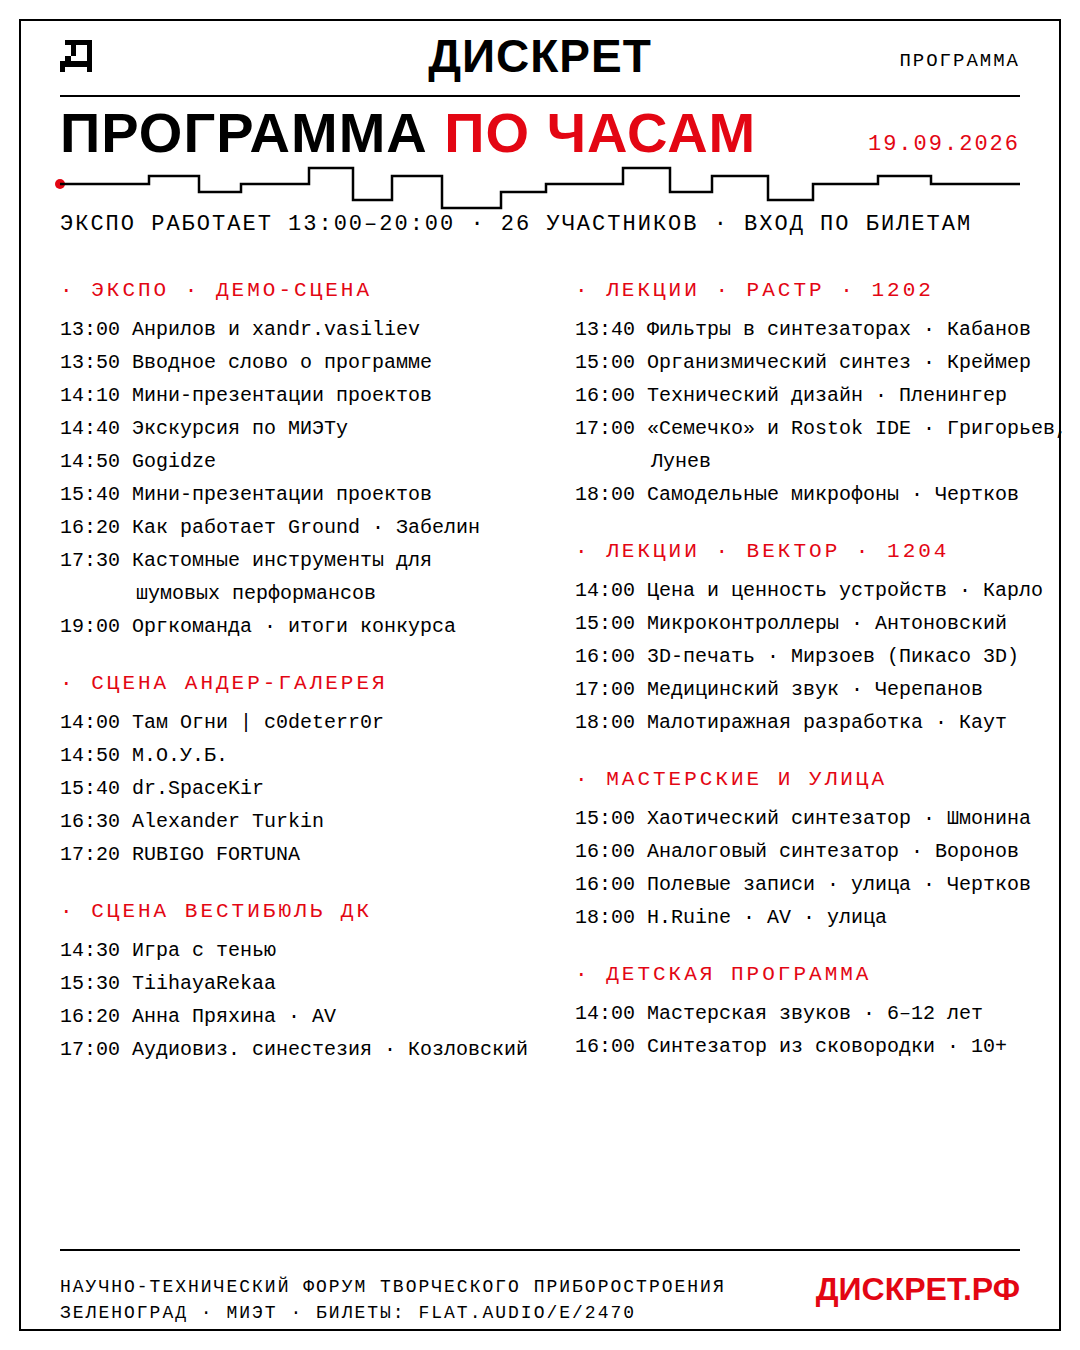
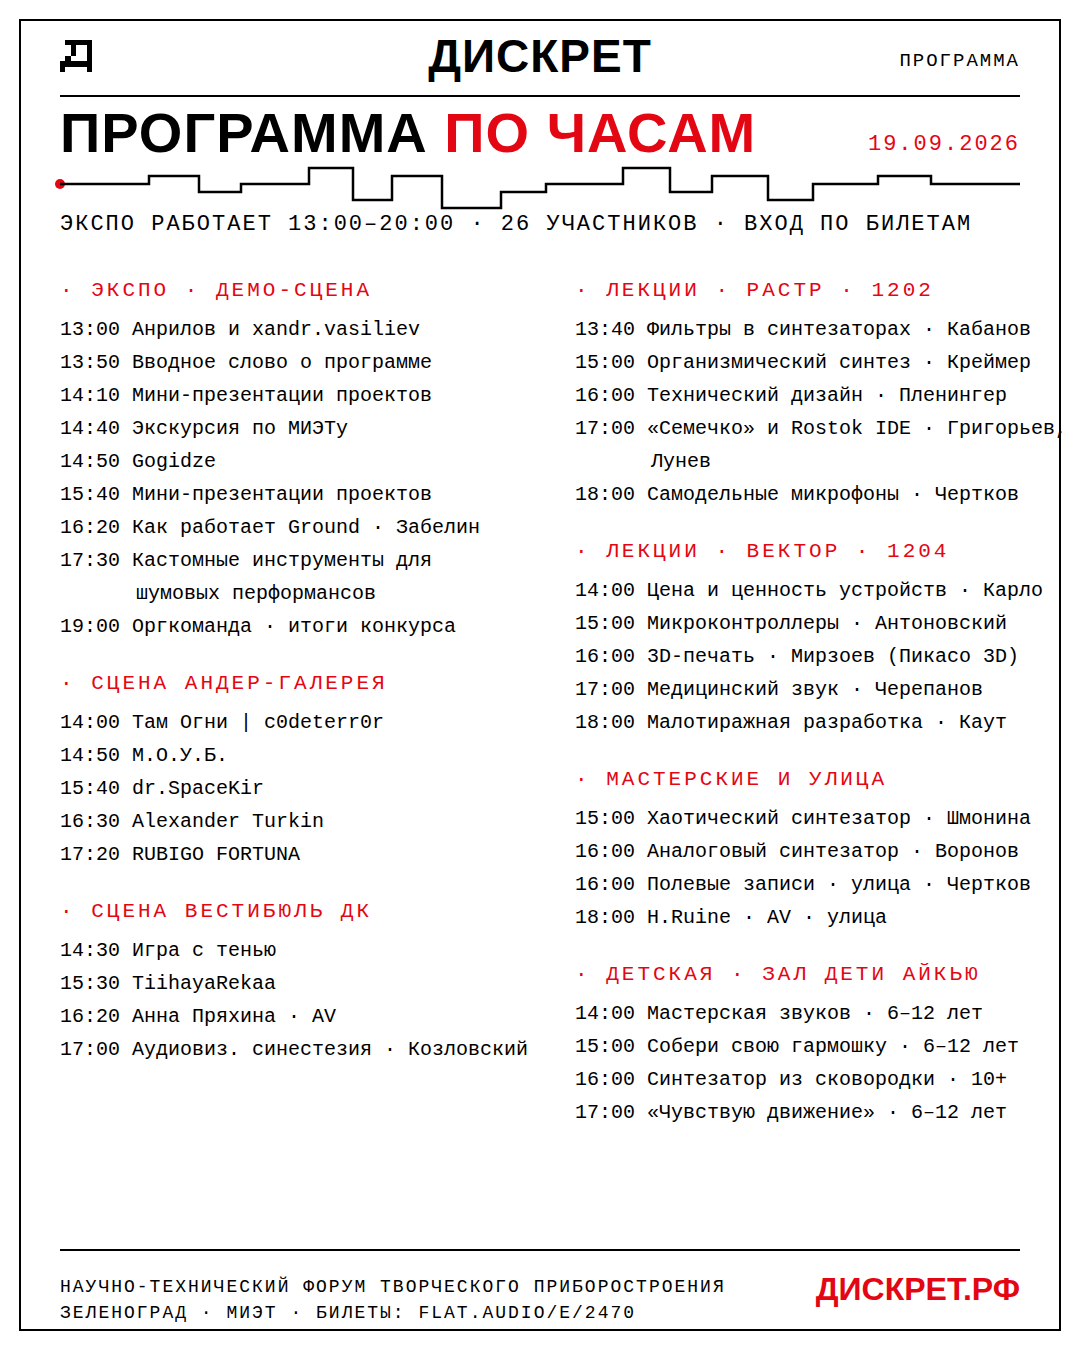
Детская программа: два МК Склада Ума и зал ДЕТИ АЙКЬЮ
15:00 «Звук — собери свою гармошку!» и 17:00 «Чувствую движение» —
шестое чувство (Склад Ума, 6–12 лет, бесплатно с регистрацией на
инфостойке). Внесено в расписание приложения, сетку A3 (колонка
подписана ДЕТИ АЙКЬЮ), программу-лист и список участников.

Claude-Session: https://claude.ai/code/session_01J7cakNvVwscKzgnd8yf78u

Changed region(s): [[0.55, 0.7156, 0.9472, 0.84]]

diff --git a/branding/app/index.html b/branding/app/index.html
@@ -623,7 +623,8 @@ const SCHED = [
   { t:"14:30", e:"15:20", title:"Игра с тенью", who:"Светлана Гончар", room:"vb", author:"shadow" },
   { t:"13:50", e:"14:10", title:"Вводное слово · экскурс по программе форума", who:"", room:"hall" },
   { t:"15:30", e:"16:20", title:"TiihayaRekaa", who:"Катрин Моррисон", room:"vb", author:"tiihaya" },
-  { t:"14:00", e:"15:00", title:"Мастерская звуков · дети 6–12 лет", who:"Олег Слуцкий · 876 ₽", room:"kids", author:"slutsky" },
+  { t:"14:00", e:"15:00", title:"Мастерская звуков · дети 6–12 лет", who:"Олег Слуцкий · 876 ₽ · зал ДЕТИ АЙКЬЮ", room:"kids", author:"slutsky" },
+  { t:"15:00", e:"16:00", title:"Звук — собери свою гармошку! · 6–12 лет", who:"Склад Ума · бесплатно, регистрация на инфостойке", room:"kids" },
   { t:"16:00", e:"17:40", title:"Полевые записи · прогулка с экспертами", who:"Илья Чертков и Влад Креймер · маршрут Павла Чукаева · 3456 ₽", room:"st", author:"chertkov" },
   { t:"13:40", e:"14:55", title:"Бесконденсаторные фильтры в синтезаторах: особенности, история, перспективы", who:"Владимир Кабанов · ПРИБОР", room:"l1" },
   { t:"14:00", e:"14:55", title:"Цена и ценность музыкальных устройств", who:"Евгений Карло", room:"l2" },
@@ -639,6 +640,7 @@ const SCHED = [
   { t:"16:20", e:"17:00", title:"Анна Пряхина · AV", who:"", room:"vb", author:"pryahina" },
   { t:"16:00", e:"19:00", title:"Воркшоп · Аналоговый синтезатор на интегральной микросхеме", who:"Егор Воронов · 4567 ₽", room:"w2", author:"voronov" },
   { t:"16:00", e:"17:00", title:"Синтезатор из сковородки · от 10 до 99 лет", who:"Олег Слуцкий · 987 ₽", room:"kids", author:"slutsky" },
+  { t:"17:00", e:"18:00", title:"«Чувствую движение» — шестое чувство · 6–12 лет", who:"Склад Ума · бесплатно, регистрация на инфостойке", room:"kids" },
   { t:"16:00", e:"16:55", title:"Технический дизайн: дьявол в деталях", who:"Александр Пленингер · онлайн-лекция", room:"l1" },
   { t:"16:00", e:"16:55", title:"3D-печать в музыкальной электронике", who:"Игорь Мирзоев · Пикасо 3D", room:"l2" },
   { t:"16:20", e:"17:15", title:"Как работает Ground", who:"Никита Забелин", room:"hall" },
